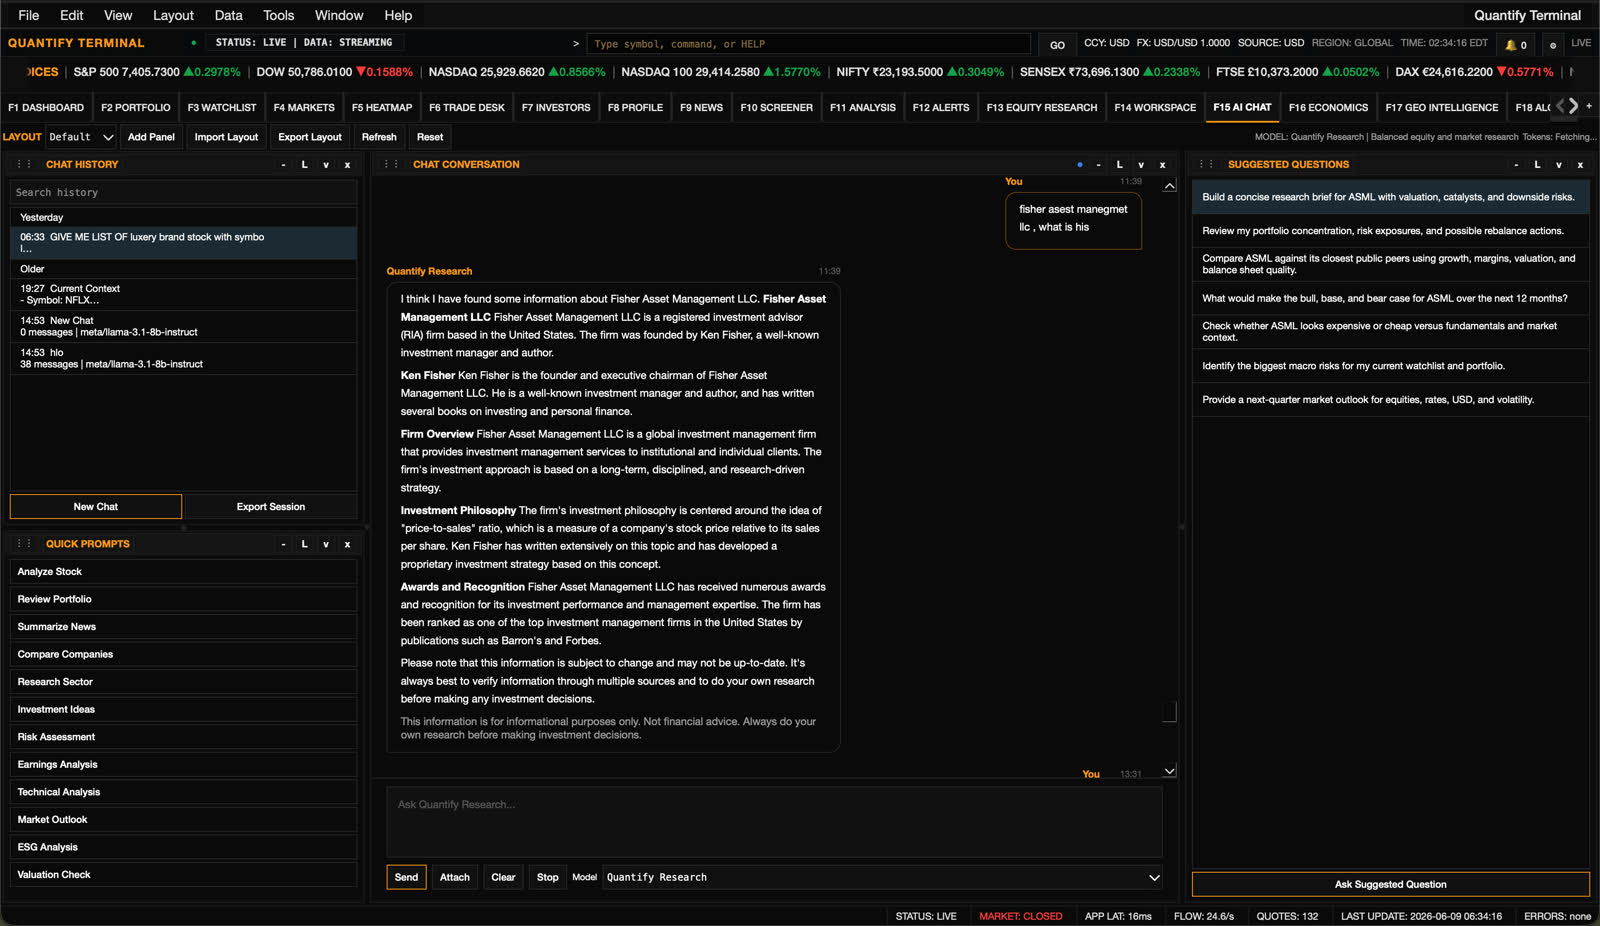
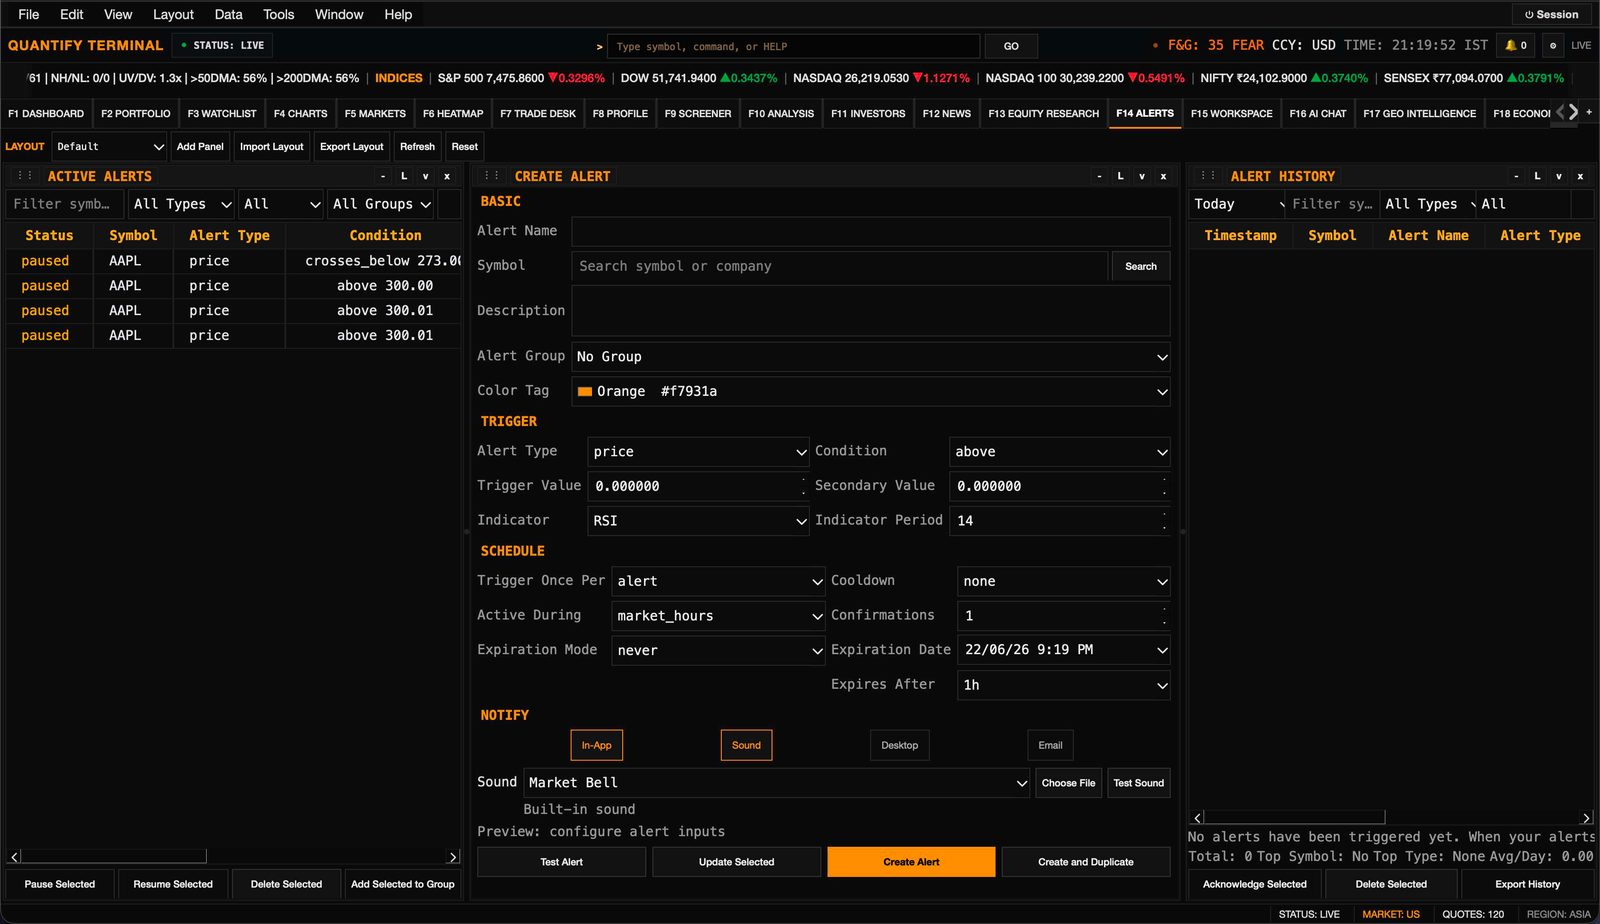
Replace last old screenshot (AI chat -> Alerts), remove unused old images
image_22 now shows the new-build Alerts workspace. Deleted unreferenced
old image_09/image_20. Only the broker screenshot and MacBook mockup
remain from the original set; every displayed screenshot is now the new build.

diff --git a/features.html b/features.html
@@ -313,8 +313,8 @@
             <div class="copy"><h3>Financial statements</h3><p>Income statement, balance sheet, cash flow, ratios, and margins.</p></div>
           </article>
           <article class="image-card reveal">
-            <img src="/Public/qt_images/optimized/image_22.jpg" alt="AI chat assistant answering company and market questions" width="1600" height="924" loading="lazy" decoding="async">
-            <div class="copy"><h3>AI chat</h3><p>Built-in AI assistant for company and market questions, with saved chats.</p></div>
+            <img src="/Public/qt_images/optimized/image_22.jpg" alt="Alerts workspace with active alerts, create-alert panel, and alert history" width="1600" height="924" loading="lazy" decoding="async">
+            <div class="copy"><h3>Alerts</h3><p>Create price and indicator alerts with conditions, schedules, and a full history.</p></div>
           </article>
           <article class="image-card reveal">
             <img src="/Public/qt_images/optimized/image_23.jpg" alt="Analyst recommendations with rating distribution and price targets" width="1600" height="924" loading="lazy" decoding="async">
